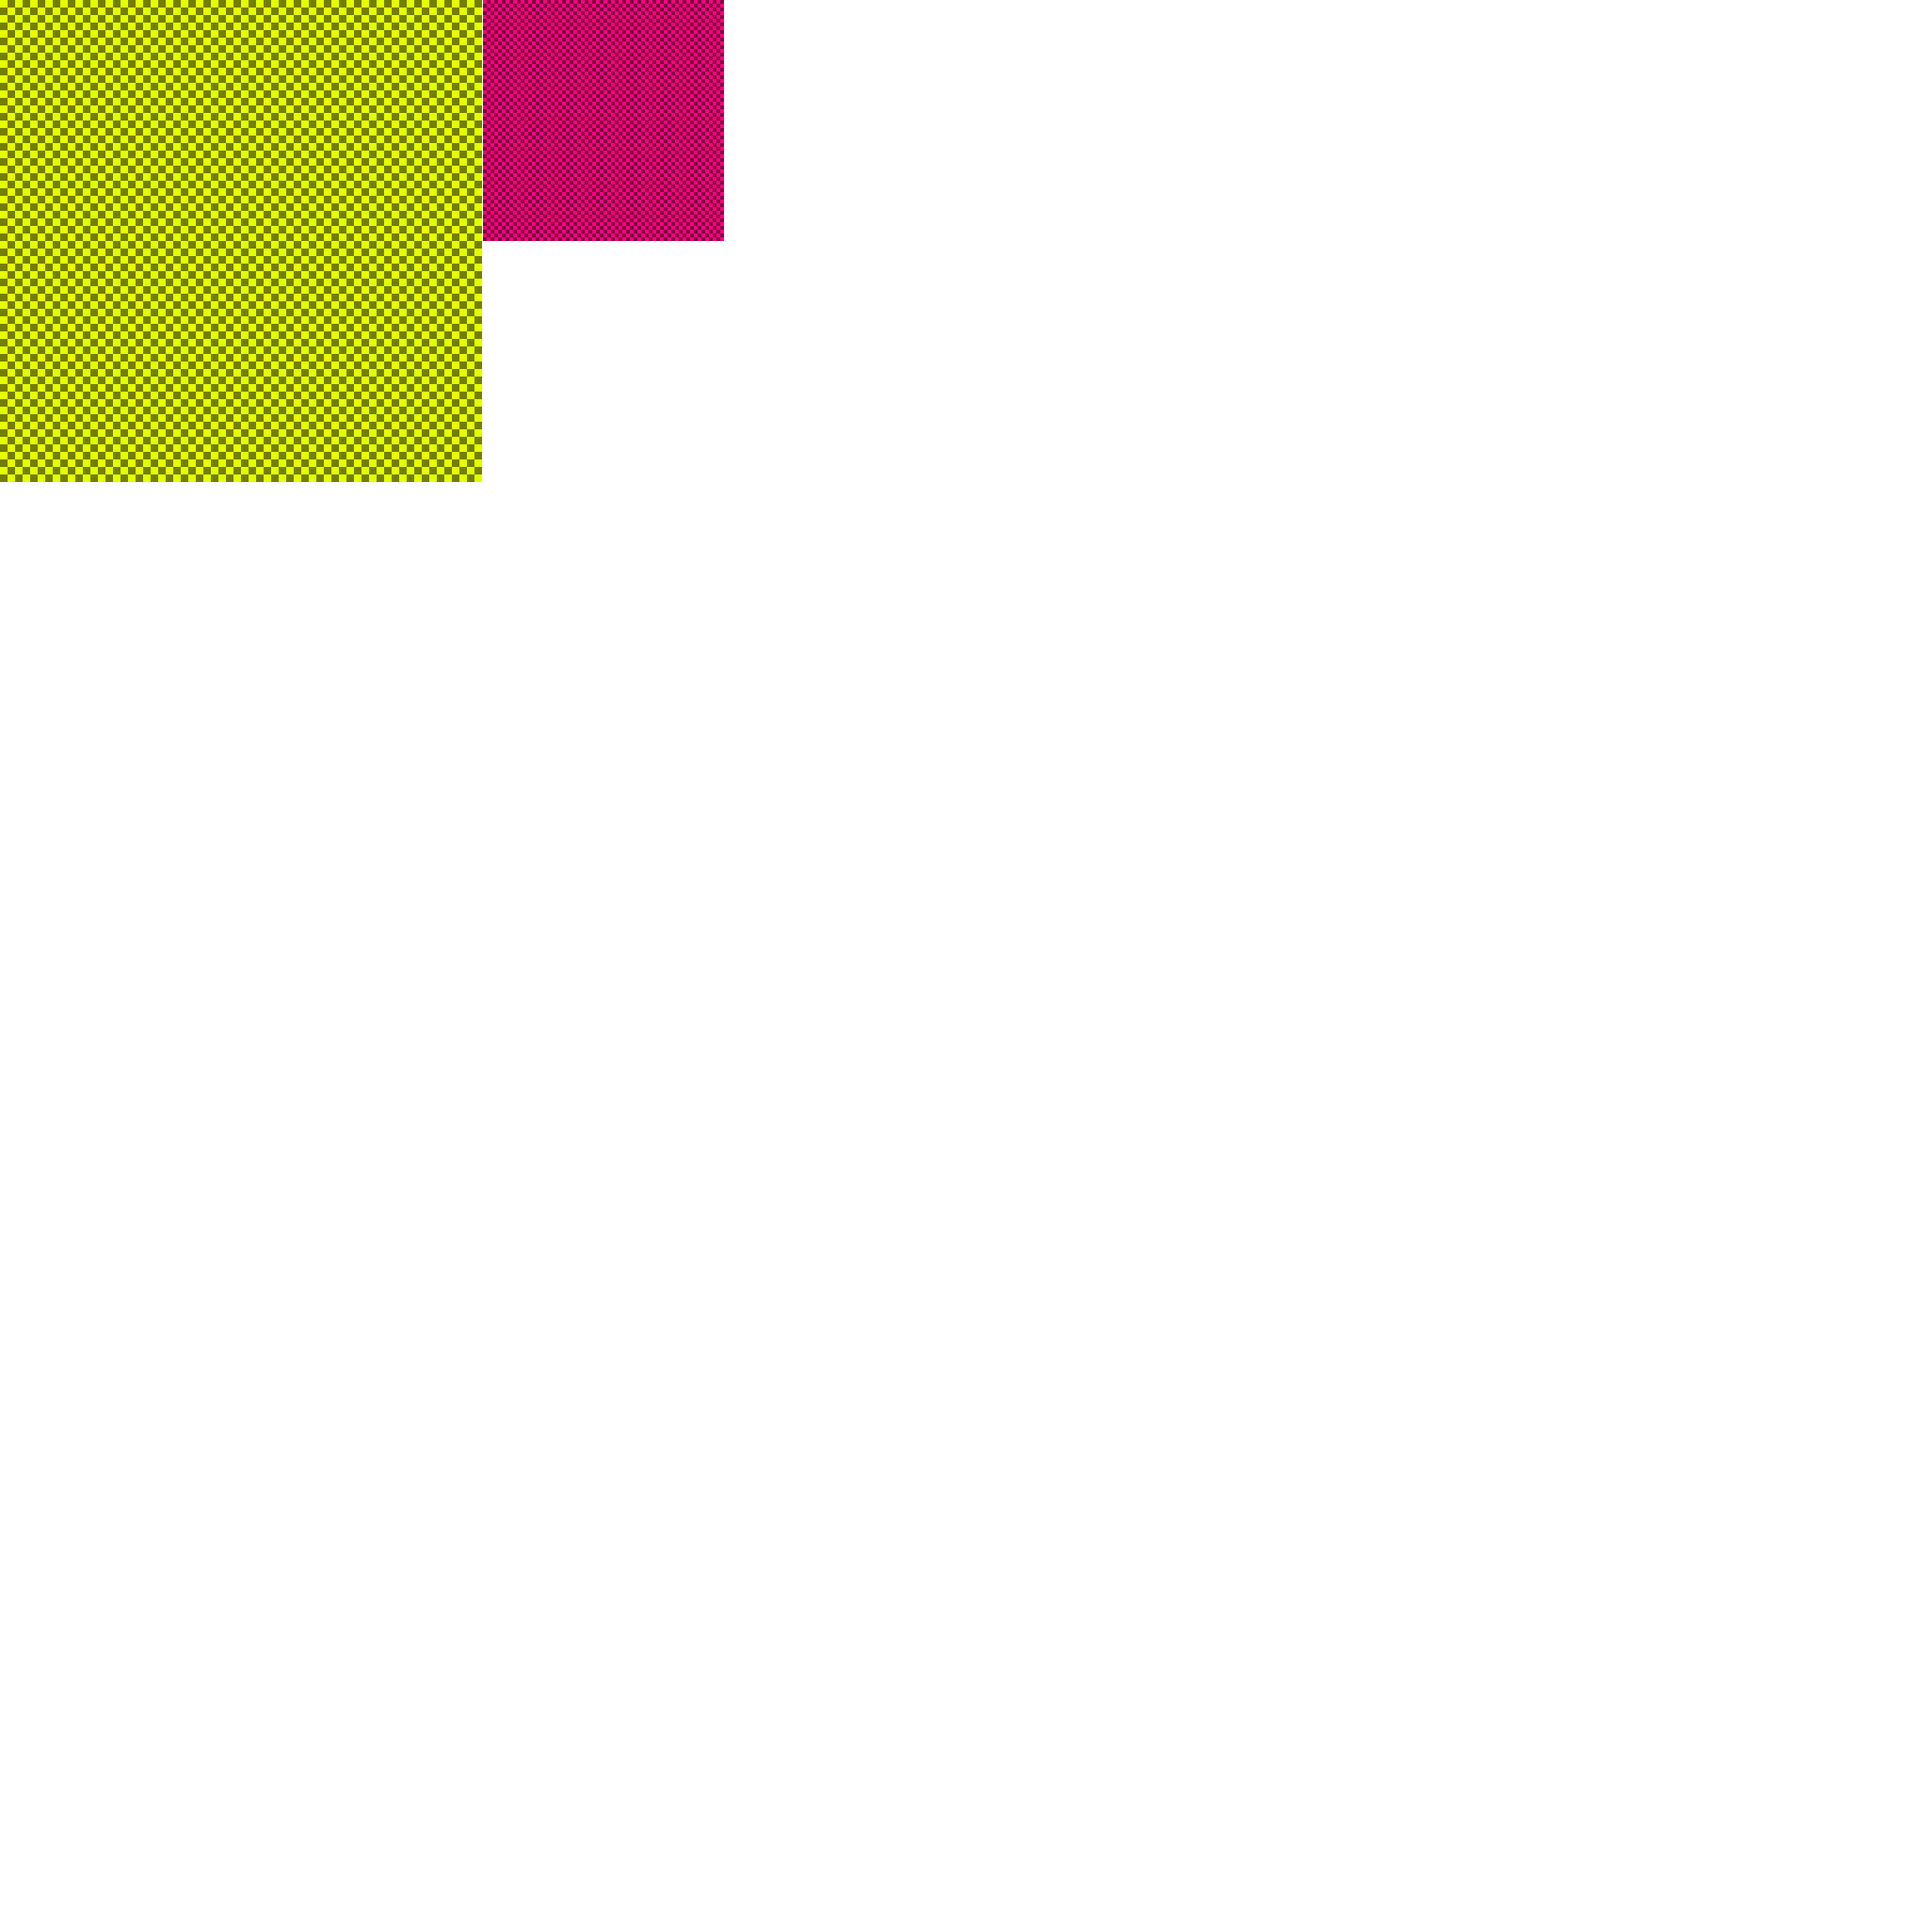
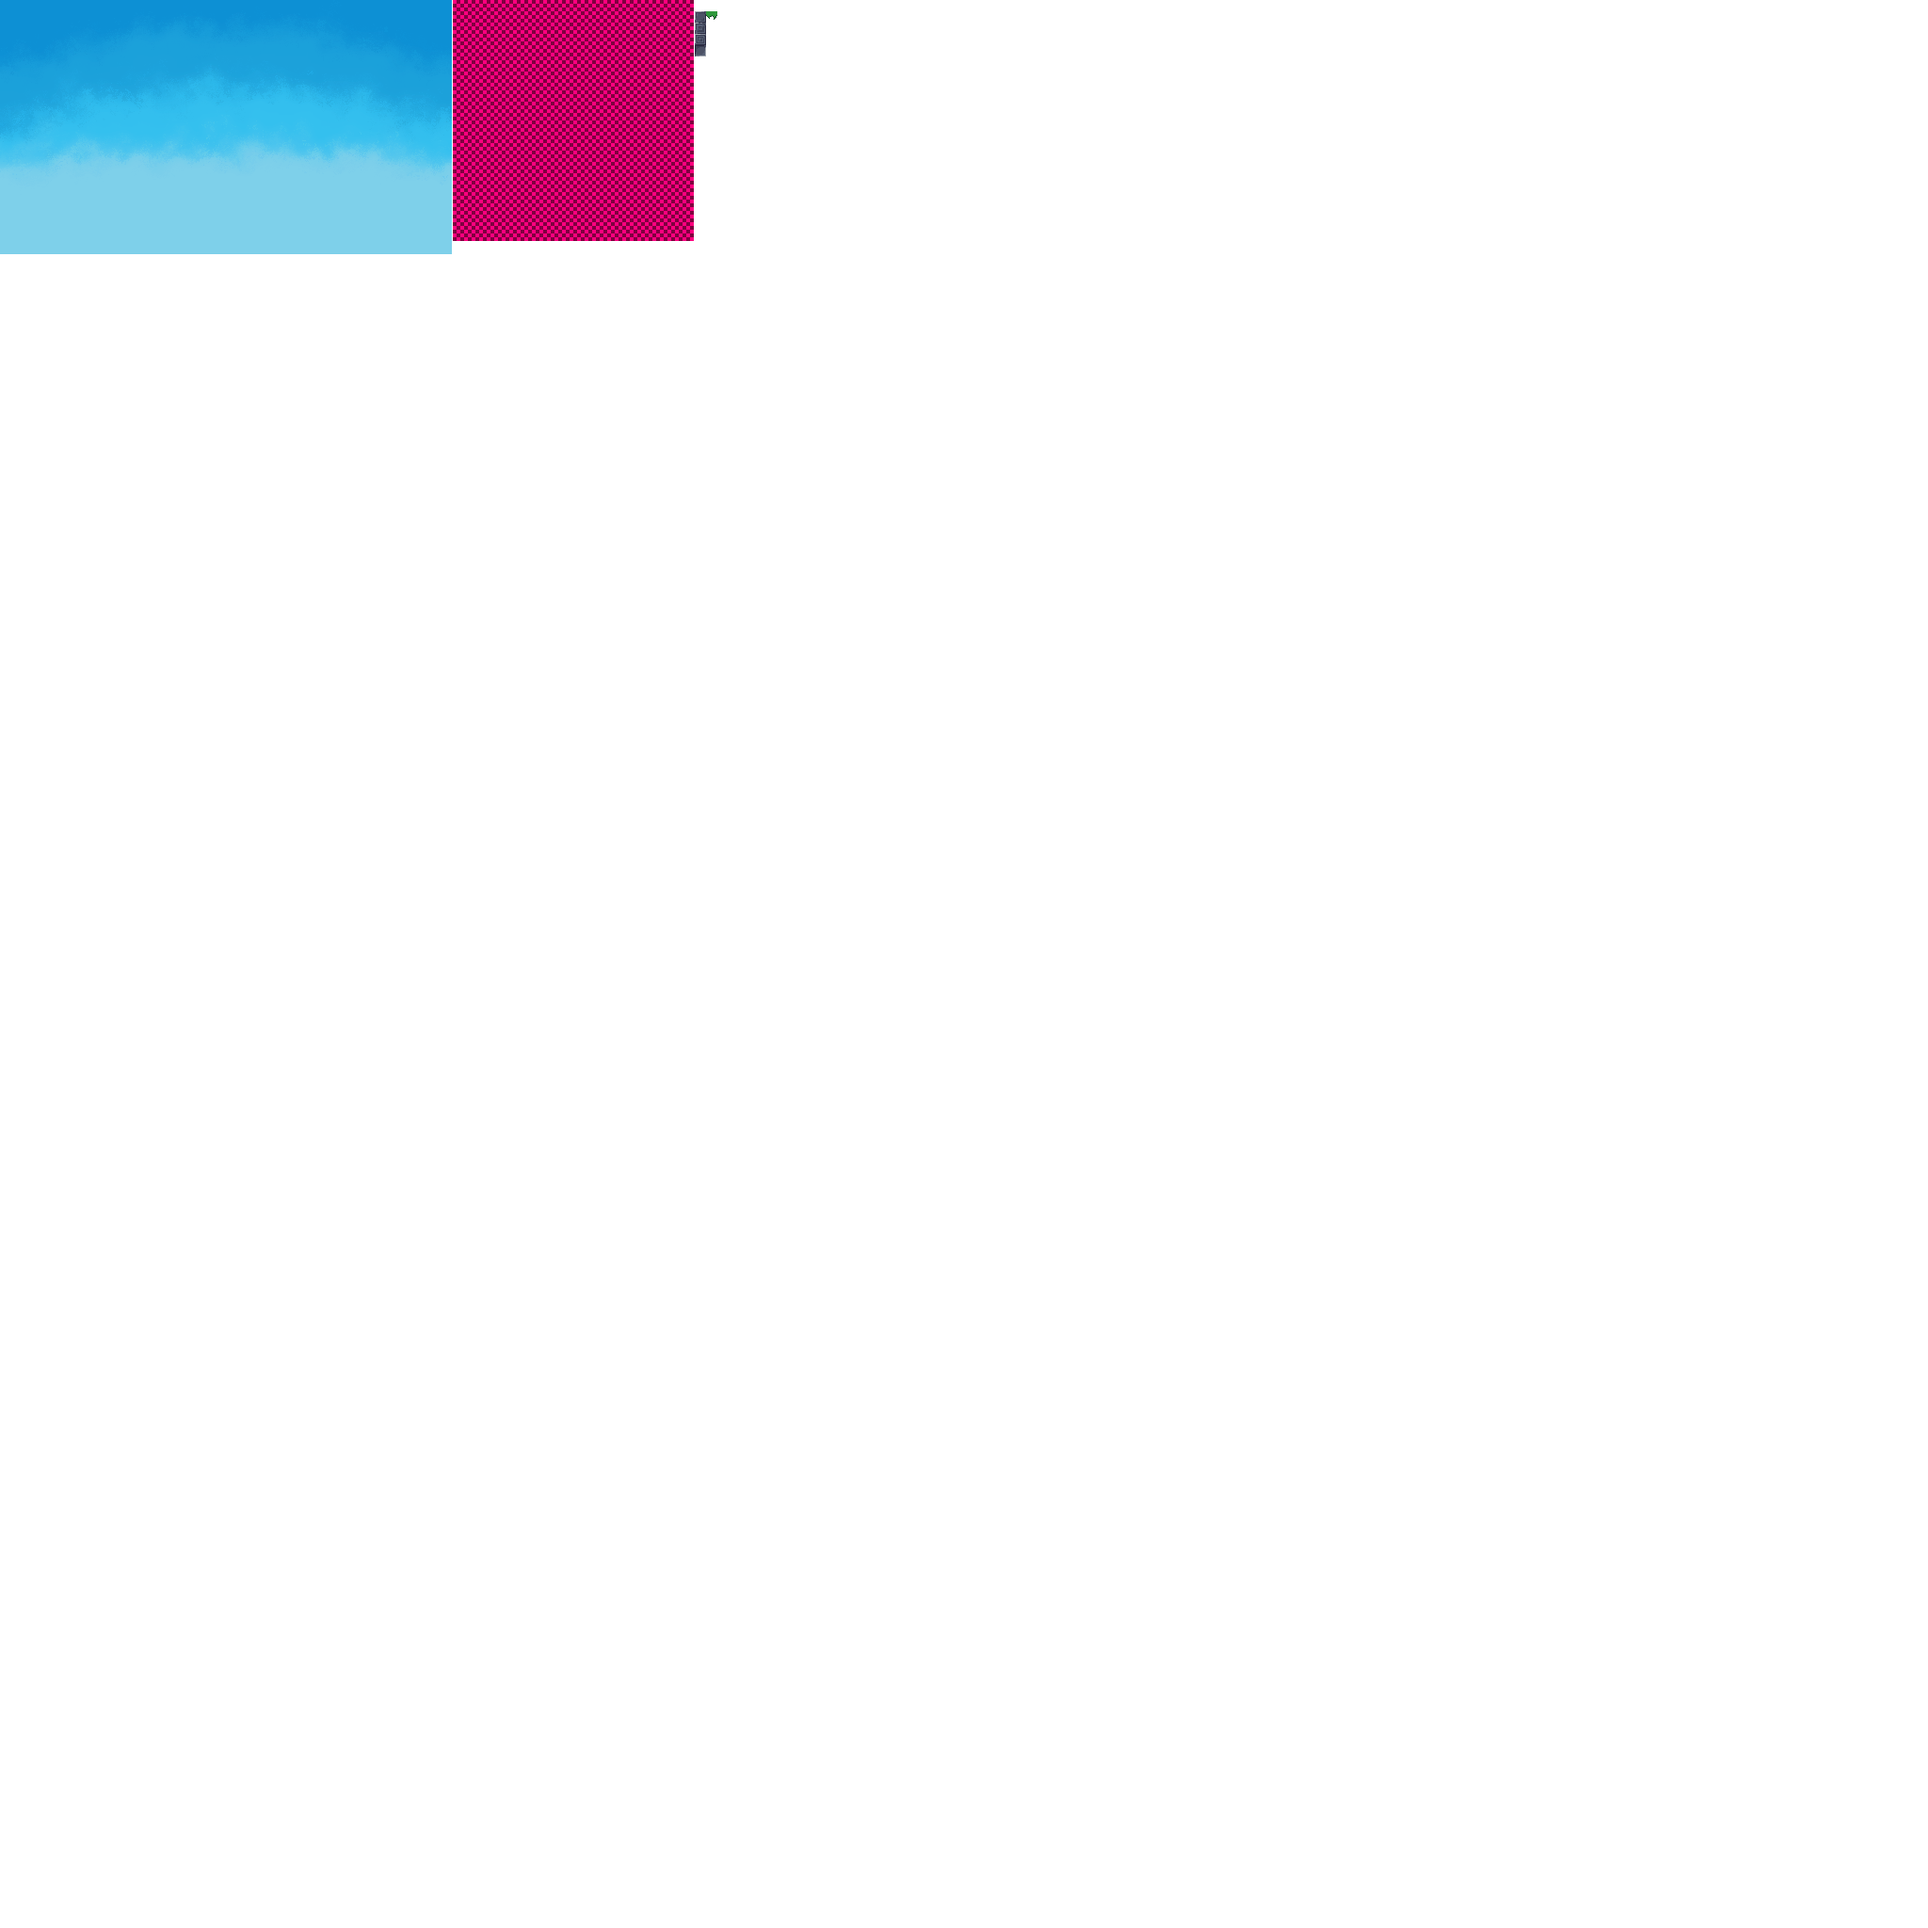
Early map rendering.

Changed region(s): [[0.0, 0.0, 0.25, 0.25], [0.3438, 0.0, 0.375, 0.125]]

diff --git a/src/game/map.h b/src/game/map.h
@@ -1,0 +1,158 @@
+#pragma once
+
+#include <exception>
+#include <string>
+
+#include "game/main.h"
+#include "gameutils/tiled_map.h"
+#include "meta/misc.h"
+#include "program/errors.h"
+#include "reflection/full.h"
+#include "stream/readonly_data.h"
+#include "utils/json.h"
+#include "utils/multiarray.h"
+
+class Map
+{
+  public:
+    static constexpr int tile_size = 12;
+
+    enum class TileType
+    {
+        air,
+        stone,
+        _count,
+    };
+
+    REFL_SIMPLE_STRUCT( Tile
+        REFL_DECL(TileType REFL_INIT=TileType::air) mid
+        VERBATIM unsigned char random = 0;
+    )
+
+    using array_t = Array2D<Tile>;
+
+  private:
+    array_t tiles;
+
+    static const Graphics::TextureAtlas::Region &AtlasRegion()
+    {
+        static Graphics::TextureAtlas::Region ret = texture_atlas().Get("tiles.png");
+        return ret;
+    }
+
+  public:
+    Map() {}
+
+    Map(std::string file_name)
+    {
+        try
+        {
+            Json json(Stream::ReadOnlyData(file_name).string(), 32);
+
+            Meta::cexpr_for<Refl::Class::member_count<Tile>>([&](auto index)
+            {
+                try
+                {
+                    constexpr auto i = index.value;
+
+                    Json::View layer_json = Tiled::FindLayer(json.GetView(), Refl::Class::MemberName<Tile>(i));
+                    if (!layer_json)
+                        Program::Error("Layer not found.");
+
+                    Tiled::TileLayer layer = Tiled::LoadTileLayer(layer_json);
+
+                    if constexpr (i == 0)
+                    {
+                        tiles = array_t(layer.size());
+                    }
+                    else
+                    {
+                        if (tiles.size() != layer.size())
+                            Program::Error("The size of this layer doesn't match the size of the other layers.");
+                    }
+
+                    for (auto pos : index_vec2(0) <= vector_range < tiles.size())
+                    {
+                        int this_tile_as_int = layer.unsafe_at(pos);
+                        TileType this_tile = TileType(this_tile_as_int);
+                        if (this_tile > TileType::_count)
+                            Program::Error("Tile at ", pos, " has invalid index #", this_tile_as_int, ".");
+
+                        Refl::Class::Member<i>(tiles.unsafe_at(pos)) = this_tile;
+                    }
+                }
+                catch (std::exception &e)
+                {
+                    Program::Error("While processing layer `", Refl::Class::MemberName<Tile>(index.value), "`:\n", e.what());
+                }
+            });
+
+            for (auto pos : index_vec2(0) <= vector_range < tiles.size())
+                tiles.unsafe_at(pos).random = rng.integer();
+        }
+        catch (std::exception &e)
+        {
+            Program::Error("While opening map `", file_name, "`:\n", e.what());
+        }
+    }
+
+    [[nodiscard]] const array_t &Tiles() const
+    {
+        return tiles;
+    }
+
+    template <int LayerIndex>
+    void Render(Meta::value_tag<LayerIndex>, ivec2 camera_pos, ivec2 viewport_size = screen_size) const
+    {
+        ivec2 corner_a = div_ex(camera_pos - viewport_size/2, tile_size);
+        ivec2 corner_b = div_ex(camera_pos + viewport_size/2, tile_size);
+
+        auto DrawTile = [&](ivec2 screen_pixel_pos, ivec2 tex_pos)
+        {
+            r.iquad(screen_pixel_pos, AtlasRegion().region(tex_pos * tile_size, ivec2(tile_size)));
+        };
+
+        for (ivec2 pos : corner_a <= vector_range <= corner_b)
+        {
+            ivec2 pixel_pos = pos * tile_size - camera_pos;
+
+            auto tile_stack = tiles.try_get(pos);
+            TileType tile = Refl::Class::Member<LayerIndex>(tile_stack);
+            unsigned char random = tile_stack.random;
+
+            auto SameAs = [&](ivec2 offset)
+            {
+                return tile == Refl::Class::Member<LayerIndex>(tiles.try_get(pos + offset));
+            };
+
+            switch (tile)
+            {
+              case TileType::air:
+              case TileType::_count:
+                // Nothing.
+                break;
+              case TileType::stone:
+                {
+                    bool inner = true;
+                    for (ivec2 offset : {ivec2(1,0), ivec2(1,1), ivec2(0,1), ivec2(-1,1), ivec2(-1,0), ivec2(-1,-1), ivec2(0,-1), ivec2(1,-1)})
+                    {
+                        if (!SameAs(offset))
+                        {
+                            inner = false;
+                            break;
+                        }
+                    }
+
+                    int r;
+                    if (inner)
+                        r = std::array{0,1,2,3,3}[random % 5];
+                    else
+                        r = std::array{0,0,0,1,1,2}[random % 6];
+
+                    DrawTile(pixel_pos, ivec2(0, 1 + r));
+                }
+                break;
+            }
+        }
+    }
+};

diff --git a/src/game/main.cpp b/src/game/main.cpp
@@ -6,13 +6,19 @@ static Graphics::DummyVertexArray dummy_vao = nullptr;
 static const Graphics::ShaderConfig shader_config = Graphics::ShaderConfig::Core();
 static Interface::ImGuiController gui_controller(Poly::derived<Interface::ImGuiController::GraphicsBackend_Modern>, adjust_(Interface::ImGuiController::Config{}, shader_header = shader_config.common_header));
 
-Graphics::TextureAtlas texture_atlas(ivec2(2048), "assets/_images", "assets/atlas.png", "assets/atlas.refl");
-Graphics::Texture texture_main = Graphics::Texture(nullptr).Wrap(Graphics::clamp).Interpolation(Graphics::nearest).SetData(texture_atlas.GetImage());
+Graphics::TextureAtlas &texture_atlas()
+{
+    static Graphics::TextureAtlas ret(ivec2(2048), "assets/_images", "assets/atlas.png", "assets/atlas.refl");
+    return ret;
+}
+Graphics::Texture texture_main = Graphics::Texture(nullptr).Wrap(Graphics::clamp).Interpolation(Graphics::nearest).SetData(texture_atlas().GetImage());
 
 AdaptiveViewport adaptive_viewport(shader_config, screen_size);
 Render r = adjust_(Render(0x2000, shader_config), SetTexture(texture_main), SetMatrix(adaptive_viewport.GetDetails().MatrixCentered()));
 
 Input::Mouse mouse;
+
+Random rng(std::random_device{}());
 
 static State::StateManager state_manager;
 

diff --git a/src/game/states/game.cpp b/src/game/states/game.cpp
@@ -1,11 +1,23 @@
 #include "game/main.h"
+#include "game/map.h"
 #include "reflection/full_with_poly.h"
 
 namespace States
 {
     STRUCT( Game EXTENDS State::BasicState )
     {
-        MEMBERS()
+        UNNAMED_MEMBERS()
+
+        SIMPLE_STRUCT( Atlas
+            DECL(Graphics::TextureAtlas::Region) sky_background
+            VERBATIM Atlas() {texture_atlas().InitRegions(*this, ".png");}
+        )
+        inline static Atlas atlas;
+
+
+        Map map;
+
+        Game() : map("assets/maps/1.json") {}
 
         float angle = 0;
 
@@ -14,7 +26,7 @@ namespace States
             (void)next_state;
 
             angle += 0.01;
-            ImGui::ShowDemoWindow();
+            // ImGui::ShowDemoWindow();
         }
 
         void Render() const override
@@ -23,6 +35,10 @@ namespace States
             Graphics::Clear();
 
             r.BindShader();
+
+            r.iquad(ivec2(0), atlas.sky_background).center();
+
+            map.Render(Meta::value_tag<0>{}, mouse.pos());
 
             r.iquad(mouse.pos(), ivec2(32)).center().rotate(angle).color(mouse.left.down() ? fvec3(1,0.5,0) : fvec3(0,0.5,1));
 

diff --git a/src/game/main.h b/src/game/main.h
@@ -7,14 +7,17 @@
 #include "input/mouse.h"
 #include "interface/window.h"
 #include "utils/mat.h"
+#include "utils/random.h"
 
 inline constexpr ivec2 screen_size(480, 270);
 extern Interface::Window window;
 
-extern Graphics::TextureAtlas texture_atlas;
+Graphics::TextureAtlas &texture_atlas();
 extern Graphics::Texture texture_main;
 
 extern AdaptiveViewport adaptive_viewport;
 extern Render r;
 
 extern Input::Mouse mouse;
+
+extern Random<> rng;
